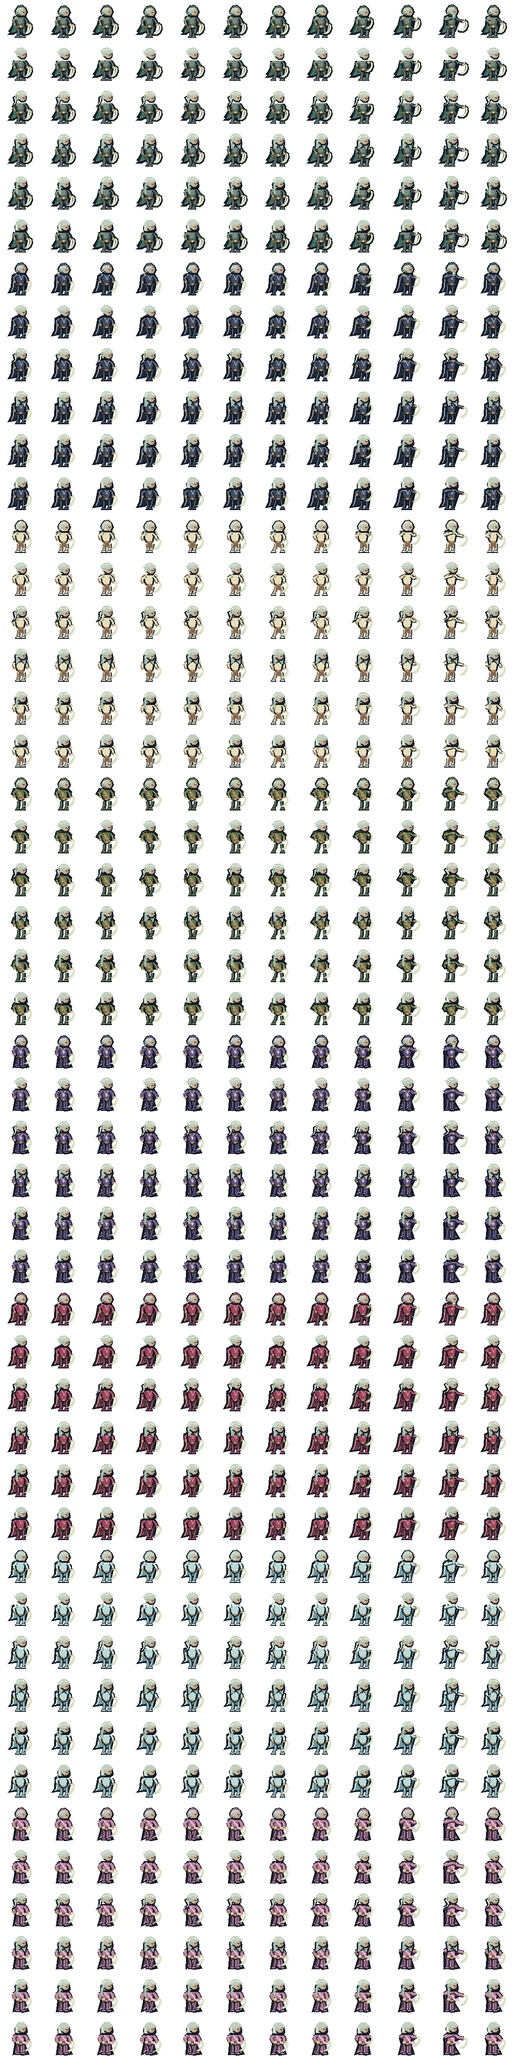
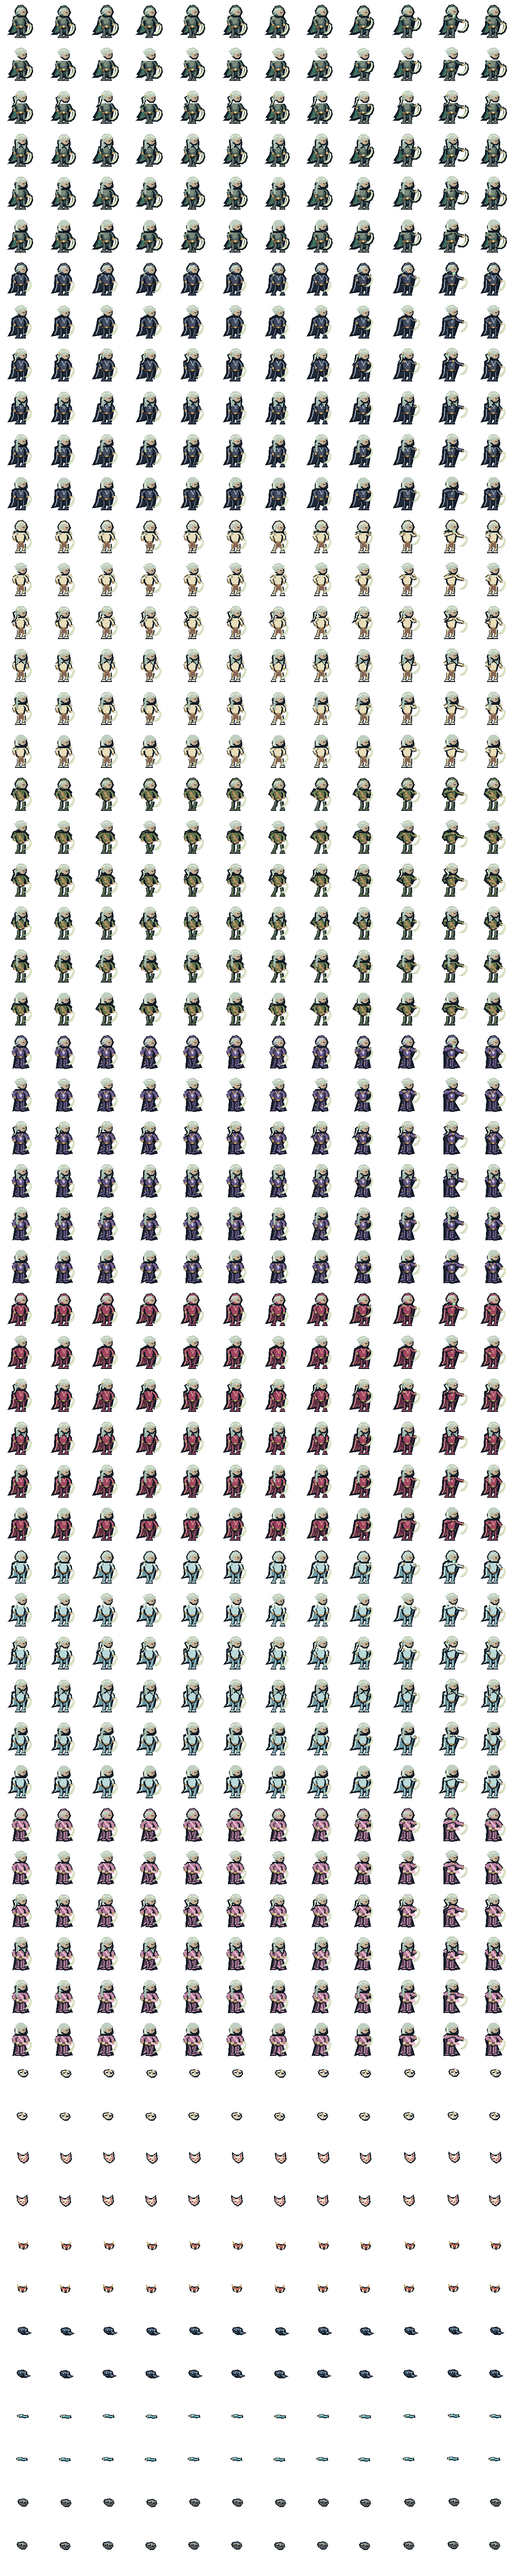
新增主角面具与帐篷面具换装功能

diff --git a/nightfall/components/game/wardrobe-panel.tsx b/nightfall/components/game/wardrobe-panel.tsx
@@ -1,54 +1,55 @@
 'use client';
 import {useEffect,useRef,useState} from 'react';
-import {Check,RotateCcw,Shirt,Scissors,Palette,X} from 'lucide-react';
-import {OUTFITS,HAIRSTYLES,HAIR_COLORS,DEFAULT_APPEARANCE,WARDROBE_URL,normalizeAppearance,appearanceKey,composeAppearanceAtlas} from '../../lib/appearance.mjs';
+import {Check,RotateCcw,Shirt,Scissors,Palette,VenetianMask,X} from 'lucide-react';
+import {OUTFITS,HAIRSTYLES,HAIR_COLORS,MASKS,DEFAULT_APPEARANCE,WARDROBE_URL,normalizeAppearance,appearanceKey,composeAppearanceAtlas} from '../../lib/appearance.mjs';
 import {actorPose} from '../../lib/animation.mjs';
 import {usePanelFocus} from './use-panel-focus';
 import '../../app/wardrobe.css';
 
-type Appearance={outfit:string;hairstyle:string;hairColor:string};
+type Appearance={outfit:string;hairstyle:string;hairColor:string;mask:string};
 type Motion='idle'|'walk'|'attack';
 let imagePromise:Promise<HTMLImageElement>|null=null;
 const strips=new Map<string,HTMLCanvasElement>();
 function loadAtlas(){return imagePromise??=(async()=>{const image=new Image();image.src=WARDROBE_URL;await image.decode();return image;})();}
 
-export function AppearancePreview({appearance,index=0,animate=false,motion='idle',face=1}:{appearance:Appearance;index?:number;animate?:boolean;motion?:Motion;face?:number}){
+export function AppearancePreview({appearance,index=0,animate=false,motion='idle',face=1,portrait=false}:{appearance:Appearance;index?:number;animate?:boolean;motion?:Motion;face?:number;portrait?:boolean}){
  const canvas=useRef<HTMLCanvasElement>(null),[failed,setFailed]=useState(false),key=appearanceKey(appearance);
  useEffect(()=>{
   let live=true,frame=0;const reduced=window.matchMedia('(prefers-reduced-motion: reduce)').matches;
   loadAtlas().then(image=>{
    if(!live||!canvas.current)return;const cacheKey=`${index}:${key}`;let strip=strips.get(cacheKey);
-   if(!strip){const [outfit,hairstyle,hairColor]=key.split('/');strip=composeAppearanceAtlas(image,{outfit,hairstyle,hairColor},index);strips.set(cacheKey,strip);if(strips.size>32)strips.delete(strips.keys().next().value!);}
+   if(!strip){const [outfit,hairstyle,hairColor,mask]=key.split('/');strip=composeAppearanceAtlas(image,{outfit,hairstyle,hairColor,mask},index);strips.set(cacheKey,strip);if(strips.size>32)strips.delete(strips.keys().next().value!);}
    const tile=strip,c=canvas.current.getContext('2d')!;
    const draw=(now:number)=>{if(!live)return;const time=now/1000,entity={hp:1,moving:animate&&motion==='walk',attackAt:animate&&motion==='attack'?time-time%1.2:undefined},pose=actorPose(entity,time,{player:true,reducedMotion:reduced});
-    c.clearRect(0,0,192,192);c.save();c.imageSmoothingEnabled=false;if(face<0){c.translate(192,0);c.scale(-1,1);}c.drawImage(tile,(animate?pose.column:0)*96,0,96,96,0,pose.offsetY,192,192);c.restore();
+    c.clearRect(0,0,192,192);c.save();c.imageSmoothingEnabled=false;if(face<0){c.translate(192,0);c.scale(-1,1);}const column=animate?pose.column:0;if(portrait)c.drawImage(tile,column*96+27,5,44,42,0,0,192,192);else c.drawImage(tile,column*96,0,96,96,0,pose.offsetY,192,192);c.restore();
     if(animate&&!reduced)frame=requestAnimationFrame(draw);
    };draw(animate?performance.now():0);
   }).catch(()=>{if(live)setFailed(true);});
   return()=>{live=false;cancelAnimationFrame(frame);};
- },[key,index,animate,motion,face]);
+ },[key,index,animate,motion,face,portrait]);
  return failed?<span className="wardrobe-preview-error">预览未载入</span>:<canvas ref={canvas} width={192} height={192} aria-label="角色穿搭预览"/>;
 }
 
 export function WardrobePanel({appearance,onSave,onClose}:{appearance:Appearance;onSave:(value:Appearance)=>void;onClose:()=>void}){
- const [draft,setDraft]=useState<Appearance>(()=>normalizeAppearance(appearance)),[tab,setTab]=useState<'outfit'|'hairstyle'|'hairColor'>('outfit'),[motion,setMotion]=useState<Motion>('idle'),[face,setFace]=useState(1);
- const outfit=OUTFITS.find(o=>o.id===draft.outfit)!,hair=HAIRSTYLES.find(h=>h.id===draft.hairstyle)!,color=HAIR_COLORS.find(c=>c.id===draft.hairColor)!;
+ const [draft,setDraft]=useState<Appearance>(()=>normalizeAppearance(appearance)),[tab,setTab]=useState<'outfit'|'hairstyle'|'hairColor'|'mask'>('outfit'),[motion,setMotion]=useState<Motion>('idle'),[face,setFace]=useState(1);
+ const outfit=OUTFITS.find(o=>o.id===draft.outfit)!,hair=HAIRSTYLES.find(h=>h.id===draft.hairstyle)!,color=HAIR_COLORS.find(c=>c.id===draft.hairColor)!,mask=MASKS.find(m=>m.id===draft.mask)!;
  usePanelFocus('.wardrobe-panel');
  return <div className="wardrobe-overlay" role="dialog" aria-modal="true" aria-labelledby="wardrobe-title" onKeyDown={event=>{if(event.key==='Escape'){event.preventDefault();event.stopPropagation();onClose();}}}>
   <section className="wardrobe-panel">
    <header><div><small>旅人帐篷</small><h2 id="wardrobe-title">更衣与梳妆</h2></div><button className="wardrobe-close" aria-label="关闭换装面板" onClick={onClose}><X size={20}/></button></header>
    <div className="wardrobe-content">
     <div className="wardrobe-model"><div className="wardrobe-portrait"><div className="wardrobe-orbit"/><AppearancePreview appearance={draft} animate motion={motion} face={face}/><i/></div>
-     <strong>{outfit.name}</strong><span>{hair.name} · {color.name}</span>
+     <strong>{outfit.name}</strong><span>{hair.name} · {color.name}<br/>{mask.name}</span>
      <div className="wardrobe-motion" aria-label="预览动作">{([['idle','待机'],['walk','行走'],['attack','攻击']] as const).map(([id,label])=><button key={id} aria-pressed={motion===id} onClick={()=>setMotion(id)}>{label}</button>)}<button aria-label="转身预览" onClick={()=>setFace(v=>-v)}><RotateCcw size={14}/></button></div>
      <p>自由搭配，免费换装。<br/>保存后在营地与战斗中穿着。</p>
     </div>
     <div className="wardrobe-options">
-     <div className="wardrobe-tabs" aria-label="外观分类"><button aria-pressed={tab==='outfit'} onClick={()=>setTab('outfit')}><Shirt size={16}/>服装 <small>8</small></button><button aria-pressed={tab==='hairstyle'} onClick={()=>setTab('hairstyle')}><Scissors size={16}/>发型 <small>6</small></button><button aria-pressed={tab==='hairColor'} onClick={()=>setTab('hairColor')}><Palette size={16}/>发色 <small>8</small></button></div>
-     <div className={`wardrobe-grid ${tab==='hairColor'?'colors':tab==='hairstyle'?'hair':''}`}>
+     <div className="wardrobe-tabs" aria-label="外观分类"><button aria-pressed={tab==='outfit'} onClick={()=>setTab('outfit')}><Shirt size={16}/>服装 <small>{OUTFITS.length}</small></button><button aria-pressed={tab==='hairstyle'} onClick={()=>setTab('hairstyle')}><Scissors size={16}/>发型 <small>{HAIRSTYLES.length}</small></button><button aria-pressed={tab==='hairColor'} onClick={()=>setTab('hairColor')}><Palette size={16}/>发色 <small>{HAIR_COLORS.length}</small></button><button aria-pressed={tab==='mask'} onClick={()=>setTab('mask')}><VenetianMask size={16}/>面具 <small>{MASKS.length-1}</small></button></div>
+     <div className={`wardrobe-grid ${tab==='hairColor'?'colors':tab==='hairstyle'?'hair':tab==='mask'?'masks':''}`}>
       {tab==='outfit'&&OUTFITS.map(value=><button key={value.id} className="wardrobe-option" aria-label={`试穿${value.name}`} aria-pressed={draft.outfit===value.id} onClick={()=>setDraft(v=>({...v,outfit:value.id}))} style={{'--outfit-color':value.color} as React.CSSProperties}><AppearancePreview appearance={{...draft,outfit:value.id}}/><span><strong>{value.name}</strong><small>{value.detail}</small></span>{draft.outfit===value.id&&<Check size={13}/>}</button>)}
       {tab==='hairstyle'&&HAIRSTYLES.map(value=><button key={value.id} className="wardrobe-option" aria-label={`试用${value.name}`} aria-pressed={draft.hairstyle===value.id} onClick={()=>setDraft(v=>({...v,hairstyle:value.id}))}><AppearancePreview appearance={{...draft,hairstyle:value.id}}/><span><strong>{value.name}</strong></span>{draft.hairstyle===value.id&&<Check size={13}/>}</button>)}
       {tab==='hairColor'&&HAIR_COLORS.map(value=><button key={value.id} className="wardrobe-option" aria-label={`${value.name}发色`} aria-pressed={draft.hairColor===value.id} onClick={()=>setDraft(v=>({...v,hairColor:value.id}))}><i className="hair-swatch" style={{background:value.color}}/><strong>{value.name}</strong>{draft.hairColor===value.id&&<Check size={13}/>}</button>)}
+      {tab==='mask'&&MASKS.map(value=><button key={value.id} className={`wardrobe-option wardrobe-mask ${value.id==='none'?'wardrobe-remove-mask':''}`} aria-label={value.id==='none'?'卸下面具':`试戴${value.name}`} aria-pressed={draft.mask===value.id} onClick={()=>setDraft(v=>({...v,mask:value.id}))} style={{'--outfit-color':value.color} as React.CSSProperties}>{value.id!=='none'&&<AppearancePreview appearance={{...draft,mask:value.id}} portrait/>}<span><strong>{value.name}</strong><small>{value.detail}</small></span>{draft.mask===value.id&&<Check size={13}/>}</button>)}
      </div>
     </div>
    </div>

diff --git a/nightfall/app/wardrobe.css b/nightfall/app/wardrobe.css
@@ -9,3 +9,6 @@
 .tent-hitbox{position:absolute;z-index:4;background:none;border:0;cursor:pointer}.tent-label{position:absolute;transform:translateX(-50%);z-index:5;display:flex;align-items:center;gap:7px;white-space:nowrap;background:#152630c9;border:1px solid #baa77740;color:#d4c59e;font-size:10px;padding:7px 10px;cursor:pointer}.tent-label small{color:#9db0a2;font-size:9px}.tent-label kbd{font-size:9px;color:#d6c18a}.camp-shortcuts{display:flex;align-items:center;gap:8px;pointer-events:auto}.tent-shortcut{display:flex;align-items:center;gap:7px;border:1px solid #acb49a33;background:#14232bb8;color:#c9c4a6;padding:12px;font-size:10px;cursor:pointer}
 @media(max-width:760px){.wardrobe-overlay{padding:12px}.wardrobe-panel{max-height:calc(100dvh - 24px);height:min(760px,calc(100dvh - 24px))}.wardrobe-panel>header{padding:17px 19px 14px}.wardrobe-panel h2{font-size:21px}.wardrobe-content{grid-template-columns:1fr;grid-template-rows:190px minmax(0,1fr);flex:1}.wardrobe-model{position:relative;display:grid;grid-template-columns:150px minmax(0,1fr);grid-template-rows:1fr auto auto 1fr;column-gap:10px;padding:8px 16px 10px;border-right:0;border-bottom:1px solid #baa57422}.wardrobe-portrait{grid-column:1;grid-row:1/5;width:150px;height:172px}.wardrobe-portrait canvas{width:168px;height:168px}.wardrobe-orbit{width:118px;height:148px;top:7px}.wardrobe-portrait>i{left:29px;right:29px;bottom:14px;height:20px}.wardrobe-model>strong{grid-column:2;grid-row:2;font-size:19px}.wardrobe-model>span{grid-column:2;grid-row:3;font-size:10px;margin-top:9px}.wardrobe-model>p{display:none}.wardrobe-motion{grid-column:2;grid-row:4;margin-top:13px;gap:3px}.wardrobe-motion button{padding:7px;font-size:9px}.wardrobe-options{padding:0 14px 10px}.wardrobe-tabs{padding-top:0;gap:22px}.wardrobe-tabs button{font-size:11px;padding:13px 0}.wardrobe-grid{gap:8px;padding-top:12px}.wardrobe-option{min-height:88px;padding-right:6px;gap:2px}.wardrobe-option canvas{width:62px;height:62px}.wardrobe-option strong{font-size:11px}.wardrobe-option small{font-size:8px}.wardrobe-grid.hair canvas{width:80px;height:80px}.wardrobe-panel>footer{padding:13px}.wardrobe-panel footer button{padding:10px 12px;font-size:10px}.wardrobe-reset{padding-left:3px!important}.tent-shortcut{padding:10px;font-size:9px}.camp-shortcuts{gap:5px}}
 @media(max-width:370px){.wardrobe-model{grid-template-columns:130px minmax(0,1fr);padding-left:9px;column-gap:4px}.wardrobe-portrait{width:130px}.wardrobe-motion button{padding:6px}.wardrobe-option canvas{width:52px;height:58px}.wardrobe-option strong{font-size:10px}.wardrobe-grid.colors{grid-template-columns:repeat(4,minmax(0,1fr))}}
+.wardrobe-model>span{line-height:1.8}.wardrobe-grid.masks{grid-template-columns:repeat(3,minmax(0,1fr));grid-auto-rows:max-content}.wardrobe-option.wardrobe-mask{flex-direction:column;padding:8px 5px 12px;text-align:center;gap:5px}.wardrobe-mask canvas{width:96px;height:92px}.wardrobe-mask>span{gap:5px}.wardrobe-mask small{font-size:8px}
+.wardrobe-option.wardrobe-remove-mask{grid-column:1/-1;flex-direction:row;justify-content:center;min-height:44px;padding:9px 15px}.wardrobe-remove-mask>span{flex-direction:row;align-items:center;gap:12px}
+@media(max-width:760px){.wardrobe-tabs{justify-content:space-between;gap:8px}.wardrobe-option.wardrobe-mask{padding:7px 3px 10px}.wardrobe-mask canvas{width:76px;height:74px}.wardrobe-model>span{line-height:1.6}}

diff --git a/nightfall/tools/draw_wardrobe.py b/nightfall/tools/draw_wardrobe.py
@@ -1,4 +1,4 @@
-"""Eight outfits x six hairstyles x twelve poses, on the existing 96px grid."""
+"""Eight outfits, six hairstyles and six mask overlays on the native 96px grid."""
 from pathlib import Path
 from PIL import Image, ImageDraw
 from draw_actor_art import wanderer, pose, limb, INK, GOLD, IVORY
@@ -6,6 +6,7 @@ from draw_actor_art import wanderer, pose, limb, INK, GOLD, IVORY
 ROOT = Path(__file__).resolve().parents[1]
 OUTFITS = ['wanderer', 'nightcoat', 'knight', 'ranger', 'mage', 'crimson', 'frost', 'sakura']
 HAIR = ['hood', 'short', 'ponytail', 'long', 'braid', 'bob']
+MASKS = ['crescent', 'fox', 'oni', 'raven', 'visor', 'iron']
 TONES = [('#284b4b', '#3e7565', '#779776'), ('#202938', '#414b60', '#a7b6c9'), ('#bfc3b3', '#e4e0c9', '#f3d58d'), ('#384c3d', '#65754b', '#a8ba85'), ('#363251', '#62527f', '#a998cf'), ('#602c43', '#a04460', '#e19b99'), ('#6c9ca7', '#b9d9d9', '#edf2df'), ('#6e4b68', '#b77d9a', '#ebbad0')]
 BASE_HAIR = ['#bfcfc0', '#f0f0d4', '#8ea99e', '#c2d1bc']
 
@@ -135,8 +136,74 @@ def hairstyle(frame, style, outfit):
     return im
 
 
+def face_mask(frame, style, hood=False):
+    p=pose(frame); k,b=p['lean']+(2 if hood else 0),p['bob']
+    im=Image.new('RGBA',(96,96));d=ImageDraw.Draw(im)
+    def poly(points,c):d.polygon([(x+k,y+b) for x,y in points],fill=c)
+    def line(points,c,w=1):d.line([(x+k,y+b) for x,y in points],fill=c,width=w)
+    def box(bounds,c):x,y,r,t=bounds;d.rectangle((x+k,y+b,r+k,t+b),fill=c)
+    def ellipse(bounds,c):x,y,r,t=bounds;d.ellipse((x+k,y+b,r+k,t+b),fill=c)
+    face=[(40,20),(51,18),(59,22),(61,29),(55,36),(47,36),(39,30),(37,24)]
+    if style=='crescent':
+        poly(face,INK)
+        poly([(41,22),(51,20),(57,23),(58,29),(54,33),(48,34),(41,29),(40,24)],'#dedaca')
+        poly([(41,22),(51,20),(55,22),(49,24),(42,26)],'#faf0d8')
+        poly([(42,25),(47,24),(47,26),(44,27)],INK)
+        poly([(52,26),(57,25),(56,28),(52,28)],INK)
+        ellipse((48,20,53,25),'#b68e4f');ellipse((50,19,54,23),'#dedaca')
+        line([(50,29),(52,32),(54,30)],'#a78e6c')
+        line([(41,28),(43,31)],'#b68e4f',2)
+    elif style=='fox':
+        poly([(38,25),(37,12),(45,18),(52,18),(60,11),(62,27),(58,33),(51,37),(44,33)],INK)
+        poly([(40,24),(40,16),(46,21),(52,20),(58,15),(59,27),(56,31),(51,34),(45,31)],'#f0e5cc')
+        poly([(41,18),(44,22),(41,23)],'#b9545b');poly([(57,17),(57,22),(54,22)],'#b9545b')
+        line([(42,25),(47,26),(44,28)],'#983b4c',2)
+        line([(52,26),(57,24),(56,28)],'#983b4c',2)
+        poly([(49,29),(53,29),(51,31)],'#983b4c')
+        line([(46,30),(47,32)],'#d48075',2);line([(56,29),(54,32)],'#d48075',2)
+    elif style=='oni':
+        poly([(39,25),(44,23),(51,25),(58,23),(61,28),(58,35),(50,38),(41,34)],INK)
+        poly([(41,27),(46,26),(51,28),(57,26),(58,30),(55,34),(50,35),(44,32)],'#ad4e54')
+        line([(41,27),(46,28),(48,26)],'#ed9b76',2);line([(52,27),(57,25)],'#e9b17b',2)
+        line([(46,32),(54,32)],'#432a3a',2)
+        poly([(44,30),(47,31),(47,36),(44,34)],'#f6e1b3')
+        poly([(54,30),(57,29),(56,34),(53,36)],'#f6e1b3')
+        poly([(39,26),(38,19),(42,23),(44,25)],'#cdae72')
+        poly([(57,24),(59,18),(60,26)],'#cdae72')
+        box((49,30,51,31),'#eea17d')
+    elif style=='raven':
+        poly(face,INK)
+        poly([(41,22),(50,20),(57,23),(58,29),(52,33),(43,31),(40,27)],'#3e4d64')
+        line([(41,23),(47,22),(51,24),(57,23)],'#9ba6b6',2)
+        ellipse((43,25,48,29),INK);ellipse((44,25,47,27),'#8bd7dc')
+        ellipse((53,25,58,29),INK);ellipse((54,25,57,27),'#8bd7dc')
+        poly([(50,28),(56,27),(68,32),(57,37),(51,33)],INK)
+        poly([(53,29),(56,29),(64,32),(57,33)],'#78899d')
+        line([(54,34),(61,33)],'#4e627c')
+    elif style=='visor':
+        line([(36,25),(42,25)],INK,4)
+        poly([(39,23),(48,22),(52,24),(60,23),(61,29),(52,31),(48,29),(40,30)],INK)
+        poly([(41,24),(48,24),(52,26),(58,25),(58,28),(52,29),(48,27),(42,28)],'#439aab')
+        line([(42,24),(47,24),(52,26),(57,25)],'#c2f1df',2)
+        box((42,27,44,27),'#7adbc8');box((54,27,57,27),'#7adbc8')
+        line([(40,22),(47,21)],'#8ca7c8')
+        box((38,24,40,28),'#b8ad8c')
+    elif style=='iron':
+        poly(face,INK)
+        poly([(41,22),(51,20),(57,23),(59,29),(54,34),(47,34),(41,29)],'#647078')
+        poly([(43,23),(50,21),(53,24),(49,29),(42,27)],'#9ba49f')
+        poly([(41,25),(48,24),(49,27),(42,28)],INK)
+        poly([(52,26),(57,25),(57,28),(52,28)],INK)
+        line([(43,25),(46,25)],'#e8c778');line([(53,26),(56,26)],'#e8c778')
+        poly([(45,29),(55,29),(55,32),(51,35),(46,32)],'#303c4b')
+        for x in [47,50,53]:line([(x,30),(x,33)],'#bfa16c')
+        line([(41,23),(41,28)],'#d6c098');box((57,23,58,24),'#d6c098')
+    return im
+
+
 def generate():
-    atlas=Image.new('RGBA',(96*12,96*len(OUTFITS)*len(HAIR)))
+    body_rows=len(OUTFITS)*len(HAIR)
+    atlas=Image.new('RGBA',(96*12,96*(body_rows+len(MASKS)*2)))
     preview=Image.new('RGB',(8*160,6*160),'#142331')
     for oi,outfit in enumerate(OUTFITS):
         for hi,hair in enumerate(HAIR):
@@ -151,8 +218,21 @@ def generate():
                     tile=im.resize((160,160),Image.Resampling.NEAREST);preview.paste(tile,(oi*160,hi*160),tile)
     original=Image.open(ROOT/'public/art/pixel-actors.png').convert('RGBA')
     assert atlas.crop((0,0,1152,96)).tobytes()==original.crop((0,0,1152,96)).tobytes(),'Default hero must stay pixel-identical'
+    mask_preview=Image.new('RGB',(len(MASKS)*160,320),'#142331')
+    for mi,style in enumerate(MASKS):
+        for hi,hood in enumerate([True,False]):
+            for frame in range(12):
+                overlay=face_mask(frame,style,hood)
+                assert overlay.getbbox(),f'Empty mask: {style}, frame {frame}'
+                atlas.paste(overlay,(frame*96,(body_rows+mi*2+hi)*96))
+                if frame==0:
+                    base=atlas.crop((0,(0 if hood else 3)*96,96,(1 if hood else 4)*96))
+                    base.alpha_composite(overlay)
+                    tile=base.crop((27,5,71,47)).resize((144,144),Image.Resampling.NEAREST)
+                    mask_preview.paste(tile,(mi*160+8,hi*160+8),tile)
     atlas.save(ROOT/'public/art/pixel-wardrobe.png',optimize=True)
     preview.save(ROOT/'public/art/pixel-wardrobe-preview.png')
+    mask_preview.save(ROOT/'public/art/pixel-masks-preview.png')
 
 
 if __name__=='__main__':generate()

diff --git a/nightfall/qa/masks/QA_REPORT.md b/nightfall/qa/masks/QA_REPORT.md
@@ -1,0 +1,37 @@
+# 主角面具换装验证
+
+日期：2026-10-16。测试入口：`http://localhost:5173/`。
+
+## 本次范围结果
+
+通过：主角默认佩戴月纹面具，帐篷内可在六款面具间切换或卸下；试戴、取消、保存、刷新保留和其他穿搭组合正常。真实营地、单人战场及头像显示一致，未发现本次范围的阻断问题。
+
+款式：月纹面具、绯纹狐面、赤鬼半面、夜鸦面具、星辉眼罩、铁卫面甲。面具免费，不改变属性。旧存档保留衣服、发型、发色及成长进度，缺少面具字段时补齐月纹面具；明确选择「不戴面具」会保留该选择。
+
+## 浏览器验证
+
+- 在 1280×720 主页面点击「帐篷换装」，角色自动靠近帐篷并打开面板；新增「面具」分类，六款头部特写与卸下按钮均可见。
+- 逐一选择全部六款，预览名称与头部造型对应改变；卸下后露出原面容，取消并重新进入仍为原先保存的月纹面具。
+- 保存绯纹狐面后刷新，再次进入帐篷，仍显示绯纹狐面。卸下并保存后重新进入，显示「不戴面具」。
+- 在 390×844 视口组合夜行长衣、利落短发、墨黑与绯纹狐面，行走预览正常，保存成功。四个分类、全部面具和固定保存栏保持可用，无横向溢出。保存栏 y=737–801，位于视口内。
+- 穿戴上述组合进入真实单人战斗，场内人物和左上头像均戴狐面，逐暗者剑气自动攻击正常；暂停返回营地后再进入帐篷仍保留穿搭。
+- 完成验证后，通过「恢复初始」并保存，主角回到逐月旅装、兜帽碎发、月银与月纹面具；临时手机视口已重置，当前页面停留在面具选择。
+- 浏览器未捕获 error 或 warn。余火仍为 60。
+
+截图：[桌面面具选择](desktop.jpg)、[手机搭配](mobile.jpg)、[营地佩戴](camp.jpg)、[实际战场与头像](combat.jpg)。
+
+## 自动检查
+
+| 检查 | 结果 | 日志 |
+| --- | --- | --- |
+| `node --test tests/*.test.mjs` | 286/286 通过 | `regression.log` |
+| 外观、资源、连续绘制专项 | 27/27 通过 | `targeted.log` |
+| `npx tsc --noEmit` | 通过 | `typecheck.log` |
+| 换装组件与外观模块 ESLint | 通过 | `lint.log` |
+| `npm run build` | 通过 | `build.log` |
+| 图集像素与边界检查 | 144 帧面具非空、12 条不同动作条、全部限制在头部，原始无面具角色像素保留 | `art-check.log` |
+| `git diff --check` | 通过 | 终端 |
+
+测试覆盖面具允许列表、旧存档迁移、卸下持久化、面具与发色分层、兜帽／露额两种定位、全部发型和动作、图集缓存区分、受击遮罩，以及完整／展示／增量快照与房主接管恢复。旧敌人绘制测试补齐标准 Canvas 像素读取模拟接口，之后全量回归通过。
+
+手机验证为浏览器视口模拟；本次没有执行实体手机或真实多设备联机。生产构建仍包含 Vinext 路由静态分类提示。长期平衡与公网联机延迟不在本次外观功能验证范围。

diff --git a/nightfall/README.md b/nightfall/README.md
@@ -12,7 +12,7 @@
 - **25 件神器**：满足武器等级、组合与宝箱条件后合成；双武器合成释放一个武器位，四武器合成释放三个武器位。
 - **祈愿庭院**：营地北侧新增相连的小地图，中央始火巨像默认开放并可持续供奉，两侧四座雕像提供永久祝福。
 - **营地成长**：守火人提供永久属性强化；药师常驻营地，铁匠在第一次死亡后加入，学者在首次击败首领后加入，各自解锁不同的局内道具。
-- **帐篷换装**：8 套像素服装、6 种发型和 8 种发色自由搭配，支持动作预览；保存的外观沿用到营地、战斗和联机。
+- **帐篷换装**：8 套像素服装、6 种发型、8 种发色和 6 款面具自由搭配，支持动作预览；保存的外观沿用到营地、战斗和联机。
 - **持续生存**：击败首领后战斗继续，后续首领变强；第 30 分钟出现死神。
 - **多种敌人**：猎犬、孢囊魔、弩手、召唤祭司、铁甲巨像，以及原有敌群、三阶精英和多技能首领。
 - **联机续战**：刷新恢复原角色、短线重连、房主自动接管、固定编号与网络延迟显示。
@@ -102,7 +102,9 @@ npm run start
 
 服装包括逐月旅装、夜行长衣、曙光轻甲、林间猎装、星术长袍、绯羽披风、霜雪斗篷和樱落和服。发型包括兜帽碎发、利落短发、高束马尾、披肩长发、侧编长辫和齐耳短发，可搭配月银、墨黑、栗棕、麦金、绯红、雾蓝、星紫与樱粉发色。
 
-选择时实时试穿，可切换待机、行走、攻击与朝向。点击「保存外观」才会写入本地营地存档，取消或关闭会放弃本次试穿；「恢复初始」同样需要保存才生效。手机端保留固定保存栏。旧存档默认沿用原始造型并保留成长进度；联机出发时携带各自保存的穿搭，快照与房主接管保留当前外观。
+面具包括月纹面具、绯纹狐面、赤鬼半面、夜鸦面具、星辉眼罩和铁卫面甲。主角默认戴月纹面具，旧穿搭自动补齐这款面具；可在「面具」页切换款式或选择「不戴面具」。面具与发型、发色和服装独立搭配，有对应兜帽与露额发型的完整动作帧，发色不会改变面具颜色。
+
+选择时实时试穿，可切换待机、行走、攻击与朝向。点击「保存外观」才会写入本地营地存档，取消或关闭会放弃本次试穿；「恢复初始」同样需要保存才生效。手机端保留固定保存栏。旧存档保留原有衣物、发型、发色与成长进度；联机出发时携带各自保存的穿搭和面具，快照与房主接管保留当前外观。营地、战斗人物、头像、阴影及受击闪光同步使用当前造型。
 
 素材重绘：`python tools/draw_wardrobe.py`，生成完整动作图集和搭配预览图。专项验证：`node --test tests/appearance.test.mjs tests/assets.test.mjs tests/rendering.test.mjs`。
 
